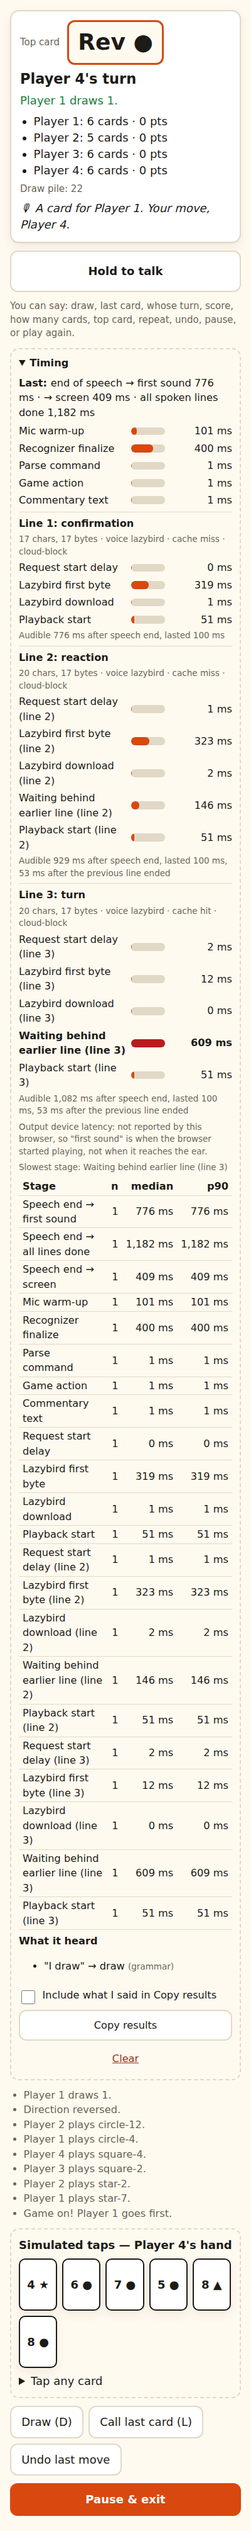
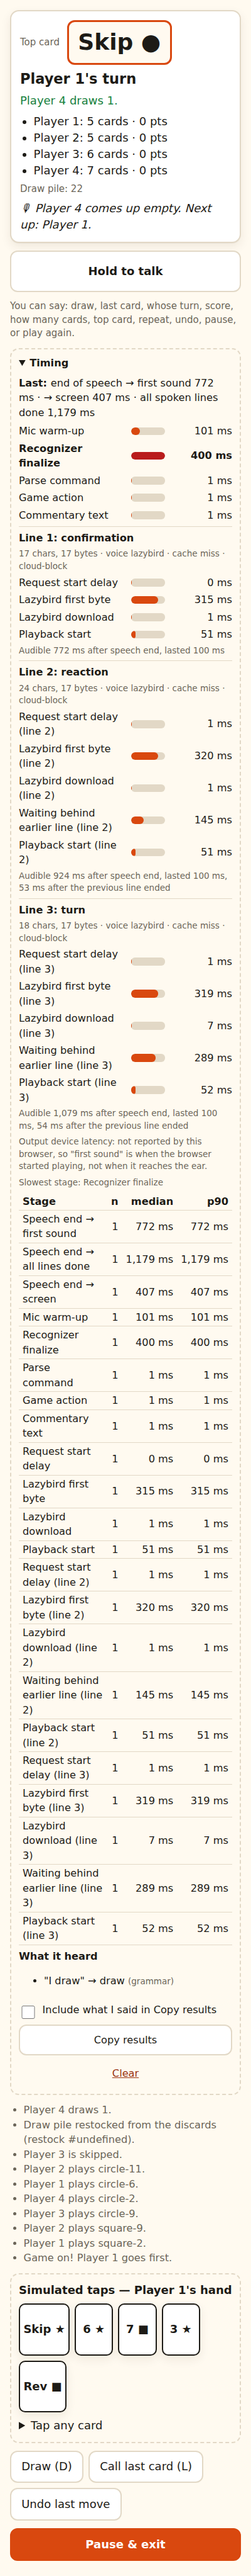
Close the mic while the app speaks; prompt and count draw-pile restocks
Claude-Session: https://claude.ai/code/session_014dNE1wrudJ3Rjp2wqt9CUz

diff --git a/tests/table.test.ts b/tests/table.test.ts
@@ -4,7 +4,7 @@ import { matchingGame, handSizeFor, nextScanner, planDeal } from '../src/games/m
 import { applyAction, startGame } from '../src/engine/engine';
 import { cardById, mulberry32 } from '../src/engine/deck';
 import { currentPlayer } from '../src/engine/turns';
-import { defaultTable, handCount, syncCounts } from '../src/engine/table';
+import { defaultTable, handCount, restockDue, syncCounts } from '../src/engine/table';
 import { SimTable, syncSim } from '../src/ui/simTable';
 import type { Action, Card, GameState, Knowledge, TableConfig } from '../src/engine/types';
 
@@ -458,6 +458,17 @@ describe('simulated physical table vs the engine (ground truth)', () => {
     expect(total).toBeGreaterThan(40);
     expect(finished).toBe(total); // every game that can be played reaches a confirmed finish
   });
+  it.each([['counts'], ['scanned']] as const)('%s: a tiny 10-card deck keeps running out and restocking, and every count still matches reality', (knowledge) => {
+    let total = 0, finished = 0;
+    for (let seed = 1; seed <= 90; seed++) {
+      const nPlayers = 2 + (seed % 3);
+      if ('error' in planDeal(nPlayers, 10)) continue;
+      total++;
+      if (playOut(seed, nPlayers, 10, knowledge, true, 600).finished) finished++;
+    }
+    expect(total).toBeGreaterThan(25);
+    expect(finished).toBe(total);
+  });
   it('forgetting to call last card costs two cards, and the counts still match the real hands through every penalty', () => {
     // Bots that never call last card are penalized each time they reach one card, so these games cannot finish by design:
     // what matters is that the engine's counts, pile and discard stay equal to reality through all those penalty draws.
@@ -510,5 +521,36 @@ describe('SimTable (the pretend people)', () => {
     r.draw('a', 3);
     expect(t.hands.a!.length).not.toBe(r.hands.a!.length);
     expect(t.play('a', 'not-a-card')).toBe(false);
+  });
+});
+
+describe('restocking the draw pile', () => {
+  it('flags a restock the moment the pile hits zero, counts each restock, and passes when nothing is left', () => {
+    const deck = deckForCount(10);
+    let s = startGame(matchingGame, mk(2), rng(), table(deck, 'counts', 'physical', 4)); // 8 dealt, 1 flipped, 1 in the pile
+    s = act(s, { type: 'flip', cardId: deck[2]! }).state;
+    expect(pile(s)).toBe(1);
+    expect(restockDue(s)).toBe(false); // nothing to shuffle yet
+    s.public.discard = [card('circle-1'), card('circle-2'), card(deck[2]!)];
+    s.private.p0!.unknown = 3; s.private.p1!.unknown = 4; syncCounts(s); // one card each was played: 7 in hands + 3 on the pile = 10, nothing left to draw
+    expect(pile(s)).toBe(0);
+    expect(restockDue(s)).toBe(true);
+    const d = act(s, { type: 'draw', player: currentPlayer(s.public.turn) });
+    expect(d.ok).toBe(true);
+    expect(d.state.public.reshuffles).toBe(1);
+    expect(d.state.public.log.some((l) => /restock #1/.test(l))).toBe(true);
+    expect(restockDue(d.state)).toBe(false);
+  });
+  it('a virtual game counts its restocks too', () => {
+    let s = startGame(matchingGame, mk(2), rng(), table(deckForCount(10), 'counts', 'virtual', 4));
+    for (let i = 0; i < 30 && !s.public.reshuffles; i++) {
+      const p = currentPlayer(s.public.turn);
+      const top = s.public.discard.at(-1) as Card;
+      const play = s.private[p]!.hand.find((c) => c.number === top.number || c.suit === top.suit);
+      const r = applyAction(matchingGame, s, play ? { type: 'play', player: p, cardId: play.id } : { type: 'draw', player: p }, rng());
+      if (r.ok) s = r.state;
+      if (s.public.status === 'finished') break;
+    }
+    expect(s.public.reshuffles ?? 0).toBeGreaterThanOrEqual(0);
   });
 });

diff --git a/src/ui/screens.ts b/src/ui/screens.ts
@@ -4,7 +4,7 @@ import { applyAction, startGame } from '../engine/engine';
 import { STANDARD_DECK, cardById, mulberry32, registerChip, resolveChip, simulatedChipId, simulatedChipMap, type ChipMap } from '../engine/deck';
 import { currentPlayer } from '../engine/turns';
 import type { Action, Card, Cartridge, GameState, Player, PlayerId, TableConfig } from '../engine/types';
-import { deckCards, handCount, unknownOf } from '../engine/table';
+import { deckCards, handCount, restockDue, unknownOf } from '../engine/table';
 import { nextScanner } from '../games/matching';
 import { SimTable, syncSim, type SimSnapshot } from './simTable';
 import { setupScreen as showSetup, type GameStart } from './setupScreen';
@@ -34,6 +34,7 @@ import {
 } from '../save';
 
 const GAMES: Cartridge[] = [matchingGame];
+const RESTOCK_TEXT = 'The draw pile is empty. Shuffle the discard pile, keeping the top card, to make a new draw pile.';
 // `?seed=123` makes shuffles repeatable, so browser tests are deterministic. Normal play is random.
 const seedParam = (() => {
   try {
@@ -181,7 +182,10 @@ function gameScreen(game: Cartridge, start: GameStartOptions): void {
   const speaker = createSpeaker(
     settings,
     (busy) => {
-      if (listener) listener.muted = busy && !pttHeld; // don't hear our own voice, unless the user is holding to talk
+      if (!listener) return;
+      listener.muted = busy && !pttHeld; // safety net: never act on our own voice
+      if (busy && !pttHeld) listener.pause(); // and close the mic while we talk, or the phone cuts our audio
+      else listener.resume();
     },
     (line) => {
       // Sample the device's output latency at the moment this line became audible.
@@ -245,6 +249,7 @@ function gameScreen(game: Cartridge, start: GameStartOptions): void {
     }
     if (via.tap && a.type === 'play') onboarding.onTap(r.ok); // the guided first tap is a real play, not dealing
     if (via.voice && r.ok) onboarding.onVoiceCommand();
+    if (r.ok && restockDue(state) && !restockDue(prev)) say(RESTOCK_TEXT, { trace: tr, kind: 'answer' }); // announce once, the moment the pile runs out
     tr.mark('acted');
     tr.meta('ok', r.ok);
     if (via.voice) say(r.message, { trace: tr, kind: 'confirmation' }); // confirm aloud first: short, instant, and what the player is waiting for
@@ -504,7 +509,8 @@ function gameScreen(game: Cartridge, start: GameStartOptions): void {
         h('p', { class: flashOk ? 'ok' : 'err', role: 'status' }, flash || ' '),
         leftOut && h('button', { id: 'add-card', onclick: () => { const id = leftOut as string; act({ type: 'addCard', cardId: id }); } }, `Add ${leftOut} to the deck`),
         h('ul', { class: 'scores' }, players.map((p) => h('li', {}, `${p.name}: ${pub.handCounts[p.id]} cards · ${pub.scores[p.id]} pts`))),
-        h('small', {}, `Draw pile: ${pub.drawPileCount}${physical ? ' (counted from your taps)' : ''}`),
+        h('small', {}, `Draw pile: ${pub.drawPileCount}${physical ? ' (counted from your taps)' : ''}${pub.reshuffles ? ` · restocked ${pub.reshuffles}×` : ''}`),
+        restockDue(state) && h('p', { id: 'restock', class: 'warn', role: 'status' }, RESTOCK_TEXT),
         pub.status === 'finished' && tallyList(),
         caption && h('p', { class: 'caption', 'aria-live': 'polite' }, `🎙 ${caption}`),
         notice && h('small', { class: 'warn' }, notice),

diff --git a/tests/voice.test.ts b/tests/voice.test.ts
@@ -1,6 +1,6 @@
 import { describe, expect, it, vi } from 'vitest';
 import { parseCommand, resolveCommand, stripWakeWord } from '../src/voice/command';
-import { BASE_DELAY_MS, MAX_DELAY_MS, MAX_FAILURES, VoiceListener, backoffDelay, type RecognitionLike } from '../src/voice/listener';
+import { BASE_DELAY_MS, MAX_DELAY_MS, MAX_FAILURES, RESUME_TAIL_MS, VoiceListener, backoffDelay, type RecognitionLike } from '../src/voice/listener';
 
 describe('parseCommand', () => {
   it.each([
@@ -76,7 +76,7 @@ describe('resolveCommand', () => {
 class FakeRec implements RecognitionLike {
   continuous = false; interimResults = false; lang = '';
   onresult: RecognitionLike['onresult'] = null; onend: RecognitionLike['onend'] = null; onerror: RecognitionLike['onerror'] = null;
-  start = vi.fn(); stop = vi.fn();
+  start = vi.fn(); stop = vi.fn(); abort = vi.fn();
   say(t: string, isFinal = true) { this.onresult?.({ resultIndex: 0, results: [{ isFinal, 0: { transcript: t } }] }); }
 }
 
@@ -103,6 +103,39 @@ describe('VoiceListener', () => {
     const l = new VoiceListener({ mode: 'push', wakeWord: '', onUtterance: (t) => got.push(t), onError: (m) => errs.push(m), factory: () => rec });
     l.start(); l.muted = true; rec.say('draw'); expect(got).toEqual([]);
     rec.onerror!({ error: 'not-allowed' }); expect(errs[0]).toContain('not-allowed');
+  });
+});
+
+describe('pause while the app speaks', () => {
+  function rig(mode: 'wake' | 'push' = 'wake') {
+    const rec = new FakeRec(); const timers: { fn: () => void; ms: number }[] = []; const errs: string[] = []; let gaveUp = 0;
+    const l = new VoiceListener({
+      mode, wakeWord: 'hey deck', onUtterance: () => {}, onError: (m) => errs.push(m), onGiveUp: () => gaveUp++, factory: () => rec,
+      schedule: (fn, ms) => { timers.push({ fn, ms }); return timers.length; }, cancel: () => {},
+    });
+    return { rec, l, timers, errs, gaveUp: () => gaveUp };
+  }
+  it('closes the mic while speaking, reopens after a short tail, and counts no failure', () => {
+    const { rec, l, timers, errs, gaveUp } = rig();
+    l.start(); expect(rec.start).toHaveBeenCalledTimes(1);
+    l.pause(); expect(rec.abort).toHaveBeenCalledTimes(1);
+    for (let i = 0; i < 10; i++) { rec.onend!(); } // the recognizer's end events must not restart it or count as failures
+    expect(rec.start).toHaveBeenCalledTimes(1);
+    expect(l.consecutiveFailures).toBe(0);
+    l.resume();
+    expect(timers.at(-1)!.ms).toBe(RESUME_TAIL_MS);
+    timers.at(-1)!.fn();
+    expect(rec.start).toHaveBeenCalledTimes(2);
+    expect(errs).toEqual([]); expect(gaveUp()).toBe(0);
+  });
+  it('does not reopen if paused again before the tail ends, and ignores push mode', () => {
+    const { rec, l, timers } = rig();
+    l.start(); l.pause(); l.resume();
+    const reopen = timers.at(-1)!.fn;
+    l.pause(); reopen();
+    expect(rec.start).toHaveBeenCalledTimes(1);
+    const p = rig('push'); p.l.start(); p.l.pause();
+    expect(p.rec.abort).not.toHaveBeenCalled();
   });
 });
 

diff --git a/src/voice/listener.ts b/src/voice/listener.ts
@@ -14,6 +14,7 @@ export interface RecognitionLike {
   onspeechend?: (() => void) | null;
   start(): void;
   stop(): void;
+  abort?(): void;
 }
 
 export type ListenMode = 'push' | 'wake';
@@ -40,6 +41,7 @@ export interface ListenerOptions {
 export const MAX_FAILURES = 5;
 export const BASE_DELAY_MS = 500;
 export const MAX_DELAY_MS = 30_000;
+export const RESUME_TAIL_MS = 350; // after the app stops talking, wait this long before the mic reopens
 const QUICK_END_MS = 1000; // a session that dies this fast with no result counts as a failure
 
 /** Delay before the nth consecutive restart (n starts at 1): 0.5s, 1s, 2s … capped at 30s. */
@@ -62,7 +64,8 @@ export class VoiceListener {
   private startedAt = 0;
   private gotResult = false;
   private errored = false;
-  muted = false; // set while the app itself is speaking, to avoid hearing itself
+  muted = false; // safety net: transcripts heard while the app speaks are dropped
+  private paused = false;
 
   constructor(private o: ListenerOptions) {}
 
@@ -81,7 +84,44 @@ export class VoiceListener {
     this.begin();
   }
 
+  /**
+   * Really close the mic while the app speaks. An open mic switches phones to call-style audio, which
+   * ducks or cuts the app's own playback, so dropping transcripts (`muted`) is not enough. Wake mode only.
+   */
+  pause(): void {
+    if (!this.active || this.o.mode !== 'wake' || this.paused) return;
+    this.paused = true;
+    this.cancelTimer();
+    try {
+      (this.rec?.abort ?? this.rec?.stop)?.call(this.rec);
+    } catch {
+      /* already stopped */
+    }
+  }
+
+  /** Reopen the mic after a short tail so the end of the app's own voice isn't heard. */
+  resume(): void {
+    if (!this.paused) return;
+    this.paused = false;
+    this.cancelTimer();
+    const rec = this.rec;
+    const go = () => {
+      this.timer = null;
+      if (!this.active || this.paused || this.rec !== rec || !rec) return;
+      this.startedAt = (this.o.now ?? Date.now)();
+      this.gotResult = false;
+      this.errored = false;
+      try {
+        rec.start();
+      } catch {
+        /* still shutting down: its end event restarts it */
+      }
+    };
+    this.timer = (this.o.schedule ?? ((fn, ms) => setTimeout(fn, ms)))(go, RESUME_TAIL_MS);
+  }
+
   stop(): void {
+    this.paused = false;
     this.active = false;
     this.cancelTimer();
     this.rec?.stop();
@@ -138,6 +178,7 @@ export class VoiceListener {
 
   private onEnd(rec: RecognitionLike): void {
     if (rec !== this.rec) return;
+    if (this.paused) return; // we closed it on purpose; resume() reopens it, and this is not a failure
     if (!this.active || this.o.mode !== 'wake') {
       this.active = false;
       this.o.onListening?.(false);

diff --git a/src/engine/table.ts b/src/engine/table.ts
@@ -34,6 +34,9 @@ export function deckCards(table: Pick<TableConfig, 'deck'>): Card[] {
   return table.deck.map((id) => cardById(id)).filter((c): c is Card => !!c);
 }
 
+/** Real cards only: the draw pile is empty but there are discards to shuffle into a new one (the top card stays). */
+export const restockDue = (s: GameState): boolean => s.table.mode === 'physical' && s.public.status === 'playing' && s.public.drawPileCount === 0 && s.public.discard.length > 1;
+
 export const inDiscard = (s: GameState, cardId: string): boolean => s.public.discard.some((c) => c.id === cardId);
 
 /** Which player's hand a card is known to be in, if the app has identified it. */
@@ -71,12 +74,15 @@ export function physicalDraw(s: GameState, player: PlayerId, n: number): DrawRes
   const spare = Math.max(0, s.public.discard.length - 1);
   const drawn = Math.min(n, pile + spare);
   const reshuffled = n > pile && spare > 0;
-  if (reshuffled) s.public.discard = [s.public.discard[s.public.discard.length - 1] as Card]; // history before the reshuffle is gone
+  if (reshuffled) {
+    s.public.discard = [s.public.discard[s.public.discard.length - 1] as Card]; // history before the reshuffle is gone
+    s.public.reshuffles = (s.public.reshuffles ?? 0) + 1;
+  }
   const p = s.private[player] as PrivateState;
   p.unknown = unknownOf(p) + drawn;
   const note =
     drawn < n
-      ? `Only ${drawn} card${drawn === 1 ? '' : 's'} left in the whole game.`
+      ? `Only ${drawn} card${drawn === 1 ? '' : 's'} left in the whole game${drawn === 0 ? '; the turn passes' : ''}.`
       : reshuffled
         ? 'The pile ran out: reshuffle the discard pile, keeping the top card.'
         : '';

diff --git a/src/games/matching.ts b/src/games/matching.ts
@@ -53,6 +53,7 @@ function drawCards(s: GameState, player: PlayerId, n: number, rng: Rng): number 
       const top = s.public.discard.pop() as Card;
       s.hidden.drawPile = shuffle(s.public.discard, rng);
       s.public.discard = [top];
+      s.public.reshuffles = (s.public.reshuffles ?? 0) + 1;
     }
     const card = s.hidden.drawPile.pop();
     if (!card) break;
@@ -342,7 +343,8 @@ function doDraw(prev: GameState, s: GameState, player: PlayerId, rng: Rng): Acti
   const { drawn, note } = pickUp(s, player, owed, rng);
   pub.pendingDraw = 0;
   pub.turn = advance(pub.turn);
-  const line = `${who} draws ${drawn}.${note ? ` ${note}` : ''}`;
+  const line = drawn === 0 ? `${who} can't draw. ${note}` : `${who} draws ${drawn}.${note ? ` ${note}` : ''}`;
+  if (s.public.reshuffles !== (prev.public.reshuffles ?? 0) && drawn > 0) logLine(s, `Draw pile restocked from the discards (restock #${s.public.reshuffles}).`);
   logLine(s, line);
   if (isPhysical(s) && s.table.knowledge === 'scanned' && drawn > 0) {
     pub.status = 'scanning';

diff --git a/src/voice/answers.ts b/src/voice/answers.ts
@@ -1,5 +1,6 @@
 import type { GameState } from '../engine/types';
 import { currentPlayer } from '../engine/turns';
+import { restockDue } from '../engine/table';
 import type { Tally } from '../save';
 import { cardName } from '../ai/commentator';
 import type { QueryType } from './command';
@@ -30,7 +31,7 @@ export function answerQuery(type: QueryType, ctx: AnswerContext): string {
       return `It's ${name(currentPlayer(pub.turn))}'s turn.${extra}`;
     }
     case 'cards':
-      return `${state.players.map((p) => `${p.name} ${pub.handCounts[p.id] ?? 0}`).join(', ')} cards.`;
+      return `${state.players.map((p) => `${p.name} ${pub.handCounts[p.id] ?? 0}`).join(', ')} cards. Draw pile ${pub.drawPileCount}${restockDue(state) ? ': empty, shuffle the discards into a new pile' : ''}.`;
     case 'top':
       return pub.discard.length ? `The top card is the ${cardName(pub.discard[pub.discard.length - 1] as never)}.` : 'No card has been flipped yet.';
     case 'repeat':

diff --git a/tests/answers.test.ts b/tests/answers.test.ts
@@ -26,7 +26,7 @@ describe('answerQuery', () => {
     expect(ask('turn', p)).toContain('must play a plus two or draw 4');
   });
   it('cards lists everyone in seat order', () => {
-    expect(ask('cards', s)).toBe('Sam 3, Lee 1, Kai 2 cards.');
+    expect(ask('cards', s)).toMatch(/^Sam 3, Lee 1, Kai 2 cards\. Draw pile \d+\.$/);
   });
   it('top reads the top card, using the special-card names', () => {
     expect(ask('top', s)).toBe('The top card is the 5 of stars.');
@@ -64,7 +64,7 @@ describe('answerQuery for the physical-table phases', () => {
     const s = base();
     expect(ask('turn', s)).toMatch(/has not started yet/);
     expect(ask('top', s)).toBe('No card has been flipped yet.');
-    expect(ask('cards', s)).toBe('Sam 7, Lee 7, Kai 7 cards.');
+    expect(ask('cards', s)).toMatch(/^Sam 7, Lee 7, Kai 7 cards\. Draw pile \d+/);
   });
   it('while confirming or scoring, the answers name who and what is pending', () => {
     const s = base();

diff --git a/src/engine/types.ts b/src/engine/types.ts
@@ -54,6 +54,7 @@ export interface PublicState {
   scanning: { player: PlayerId; remaining: number } | null;
   pendingWin: PlayerId | null;
   scoredCards: string[]; // leftover cards already counted this round
+  reshuffles?: number; // how many times the discard pile has been restocked into the draw pile (absent in older saves)
   turn: TurnState;
   discard: Card[]; // last element is the top card
   drawPileCount: number;

diff --git a/README.md b/README.md
@@ -13,6 +13,7 @@ A deck of NFC playing cards plus a companion web app. Built from the *AI Smart C
 | OpenRouter commentary + Lazybird voice (step 5) | Built to the documented APIs; **not run against the live services** |
 | Voice input: wake word + push-to-talk | Built with backoff, tolerant wake word, interrupt; tested with a fake recognizer, **not on a real mic** |
 | Voice latency tracing (Timing panel) | Built: per-stage timings, every spoken line traced separately, output latency read from the browser's audio clock. Verified against injected delays (reads back 100/400/300/50ms as 102/400/317/54). **Real numbers need one round on a phone** |
+| Mic closes while the app speaks (fixes audio cut-outs); draw pile empty/restock prompts for real cards | Built and tested with a fake recognizer and 10-card simulated games. **Not yet confirmed on a real phone** |
 | Setup remembers your choices: player count, "Use real NFC taps" (defaults on when the phone supports it and tags are registered), dealing, deck | Built and tested, with a "N of M cards have tags" hint. |
 | Real-card table model: count-only and scan-hands dealing, any number of cards in play | Built and tested: counts match real hands through whole simulated games (3,000+ moves, many deck sizes). **Not yet tried with real NFC cards** |
 | Voice speed: hybrid voice, pipelined + cached Lazybird, heard-text, wake-word timing | Built; verified in a browser against a mocked 4s Lazybird (answers audible in ~440ms, repeats from cache in ~470ms). **Real-phone gain, iOS behavior and voice quality still to confirm** |
@@ -154,6 +155,10 @@ Likely fixes, picked once the numbers show the biggest stage: act on interim res
 ## Running log
 
 Newest first. Add an entry with every push.
+
+### 2026-10-04 (audio cut-outs, draw pile restock)
+- **Audio:** in wake-word mode the mic stayed open while the app spoke (only the transcripts were dropped), which on phones switches to call-style audio and cuts playback. The listener now really closes the mic while the app talks and reopens it ~350ms after, without counting that as a failure. Push-to-talk is unchanged. **Needs a real-phone check.** If it still clips, use push-to-talk.
+- **Draw pile:** a 10-card deck at 2-3 players now has simulated whole-game checks (counts and scanned): hands + pile + discard always equal the deck, and every restock keeps the top card. New: the screen and voice say right away when the pile is empty and the discards need shuffling; restocks are counted and logged (also in app-dealt games); a draw with nothing left anywhere says the turn passes. 4+ players can't be dealt from 10 cards (the app refuses at setup).
 
 ### 2026-10-04 (left-out cards)
 - **Fix:** "That card isn't in this game's deck" now says which card and why ("star-13 was left out of this game (40 cards in play)") and offers an **Add it to the deck** button. The usual cause is a remembered smaller "cards in play" count, which drops the highest numbers first. Setup's tag hint also warns when registered tags aren't in play. 242 unit tests; browser-tested.
